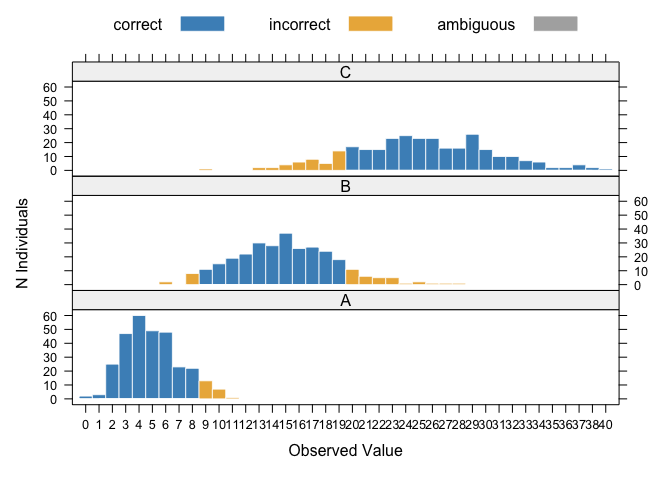
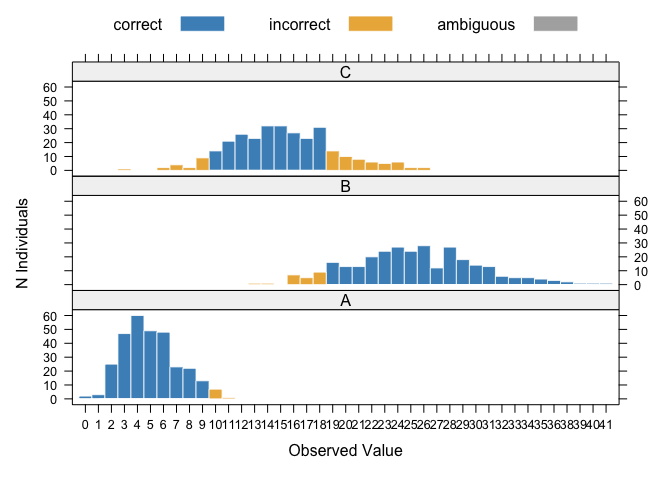
updated README

diff --git a/README.md b/README.md
@@ -45,12 +45,12 @@ n <- 300
 
 dat <- data.frame(x = rep(c("A","B","C"), each = n),
                   y = c(rpois(n, lambda = 5),
-                        rpois(n, lambda = 15),
-                        rpois(n, lambda = 25)))
+                        rpois(n, lambda = 25),
+                        rpois(n, lambda = 15)))
 
 dat$x <- factor(dat$x)
 
-histogram( ~ y | x, data = dat, layout = c(1,3))
+histogram( ~ y | x, data = dat, type = "count", layout = c(1,3))
 ```
 
 ![](man/figures/README-simulate_data-1.png)<!-- -->
@@ -70,15 +70,15 @@ summary(mod)
 #> Observations: 900 
 #> Missing observations: 0 
 #> Target groups: 3 
-#> Correctly classified observations: 794 
-#> Incorrectly classified observations: 106 
+#> Correctly classified observations: 798 
+#> Incorrectly classified observations: 102 
 #> Ambiguously classified observations: 0 
-#> PCC: 88.22 
+#> PCC: 88.67 
 #> 
 #> ********** Randomisation Test **********
 #> Random reorderings: 1000 
-#> Minimum random PCC: 36.56 
-#> Maximum random PCC: 46.22 
+#> Minimum random PCC: 37 
+#> Maximum random PCC: 46.33 
 #> Chance-value: 0 
 #> 
 #>     individual observation target prediction  accuracy
@@ -86,13 +86,13 @@ summary(mod)
 #> 2            2           7      A          A   correct
 #> 3            3           4      A          A   correct
 #> 4            4           8      A          A   correct
-#> 5            5           9      A          B incorrect
+#> 5            5           9      A          A   correct
 #> 6            6           2      A          A   correct
 #> 7            7           5      A          A   correct
 #> 8            8           8      A          A   correct
 #> 9            9           5      A          A   correct
 #> 10          10           5      A          A   correct
-#> 11          11           9      A          B incorrect
+#> 11          11           9      A          A   correct
 #> 12          12           5      A          A   correct
 #> 13          13           6      A          A   correct
 #> 14          14           5      A          A   correct
@@ -101,18 +101,18 @@ summary(mod)
 #> 17          17           3      A          A   correct
 #> 18          18           2      A          A   correct
 #> 19          19           4      A          A   correct
-#> 20          20           9      A          B incorrect
+#> 20          20           9      A          A   correct
 #> 21          21           8      A          A   correct
 #> 22          22           6      A          A   correct
 #> 23          23           6      A          A   correct
-#> 24          24          11      A          B incorrect
+#> 24          24          11      A          C incorrect
 #> 25          25           6      A          A   correct
 #> 26          26           6      A          A   correct
 #> 27          27           5      A          A   correct
 #> 28          28           5      A          A   correct
 #> 29          29           4      A          A   correct
 #> 30          30           3      A          A   correct
-#> 31          31           9      A          B incorrect
+#> 31          31           9      A          A   correct
 #> 32          32           8      A          A   correct
 #> 33          33           6      A          A   correct
 #> 34          34           7      A          A   correct
